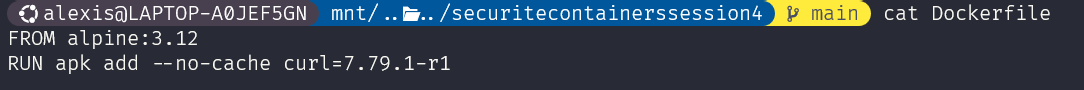
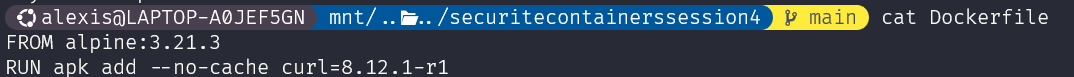
fix: session 4 corrections d'erreurs

Changed region(s): [[0.0, 0.0, 0.9832, 0.961]]

diff --git a/session 4/session4.md b/session 4/session4.md
@@ -67,7 +67,7 @@ La signature de la première image est bien vérifiée. Cela montre que nous avo
 
 ![alt text](images/6.png)
 
-La signature de la deuxième image revoit une erreur. En effet, nous avons pas signé cette image, donc la signature n'est pas trouvée.
+La signature de la deuxième image renvoit une erreur. En effet, nous avons pas signé cette image, donc la signature n'est pas trouvée.
 
 ### Sécurité dans les Pipelines CI/CD
 
@@ -181,5 +181,5 @@ La signature de la deuxième image revoit une erreur. En effet, nous avons pas s
 
   ![alt text](images/12.png)
 
-  La pipeline échoue au stage 4, celui du scan avec trivy_scan, car la version 3.12 de Alpine est une ancienne version (2020) qui n'est plus maintenue depuis 2022. Cette version inclue également Curl 7.79.1 qui date de 2021 et sur laquelle plusieurs CVE (Common Vulnerabilities and Exposures) existent.
+  La pipeline échoue au stage 4, celui du scan avec trivy_scan, car la version 3.12 de Alpine est une ancienne version (2020) qui n'est plus maintenue depuis 2022. On utilise également Curl 7.79.1 qui date de 2021 et sur laquelle plusieurs CVE (Common Vulnerabilities and Exposures) existent.
   Et comme Trivy, dans le pipeline, est configuré pour échouer si des vulnérabilités de niveau HIGH ou CRITICAL sont détectées. Ce scan va donc détecter des vulnérabilités critiques ou hautes dans cette image, ce qui va provoquer un échec intentionnel de l'étape (exit-code 1).
